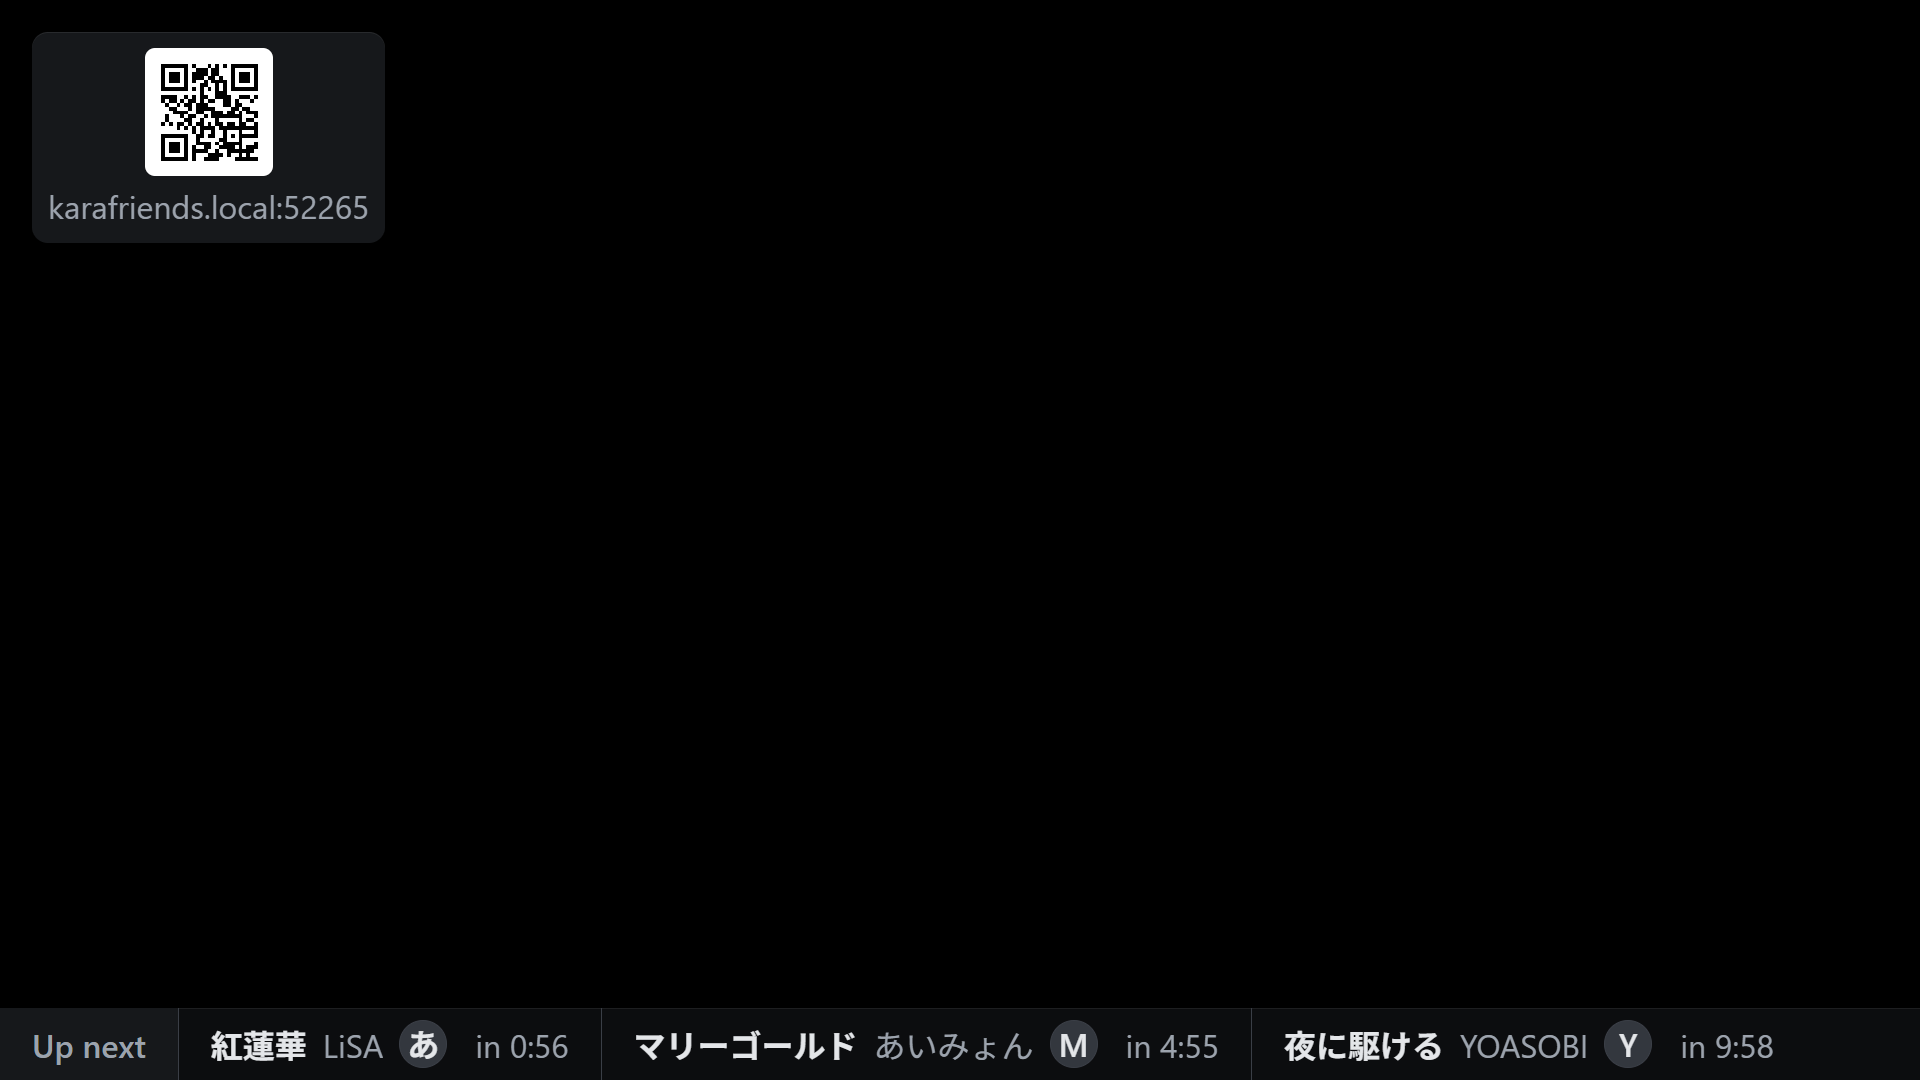
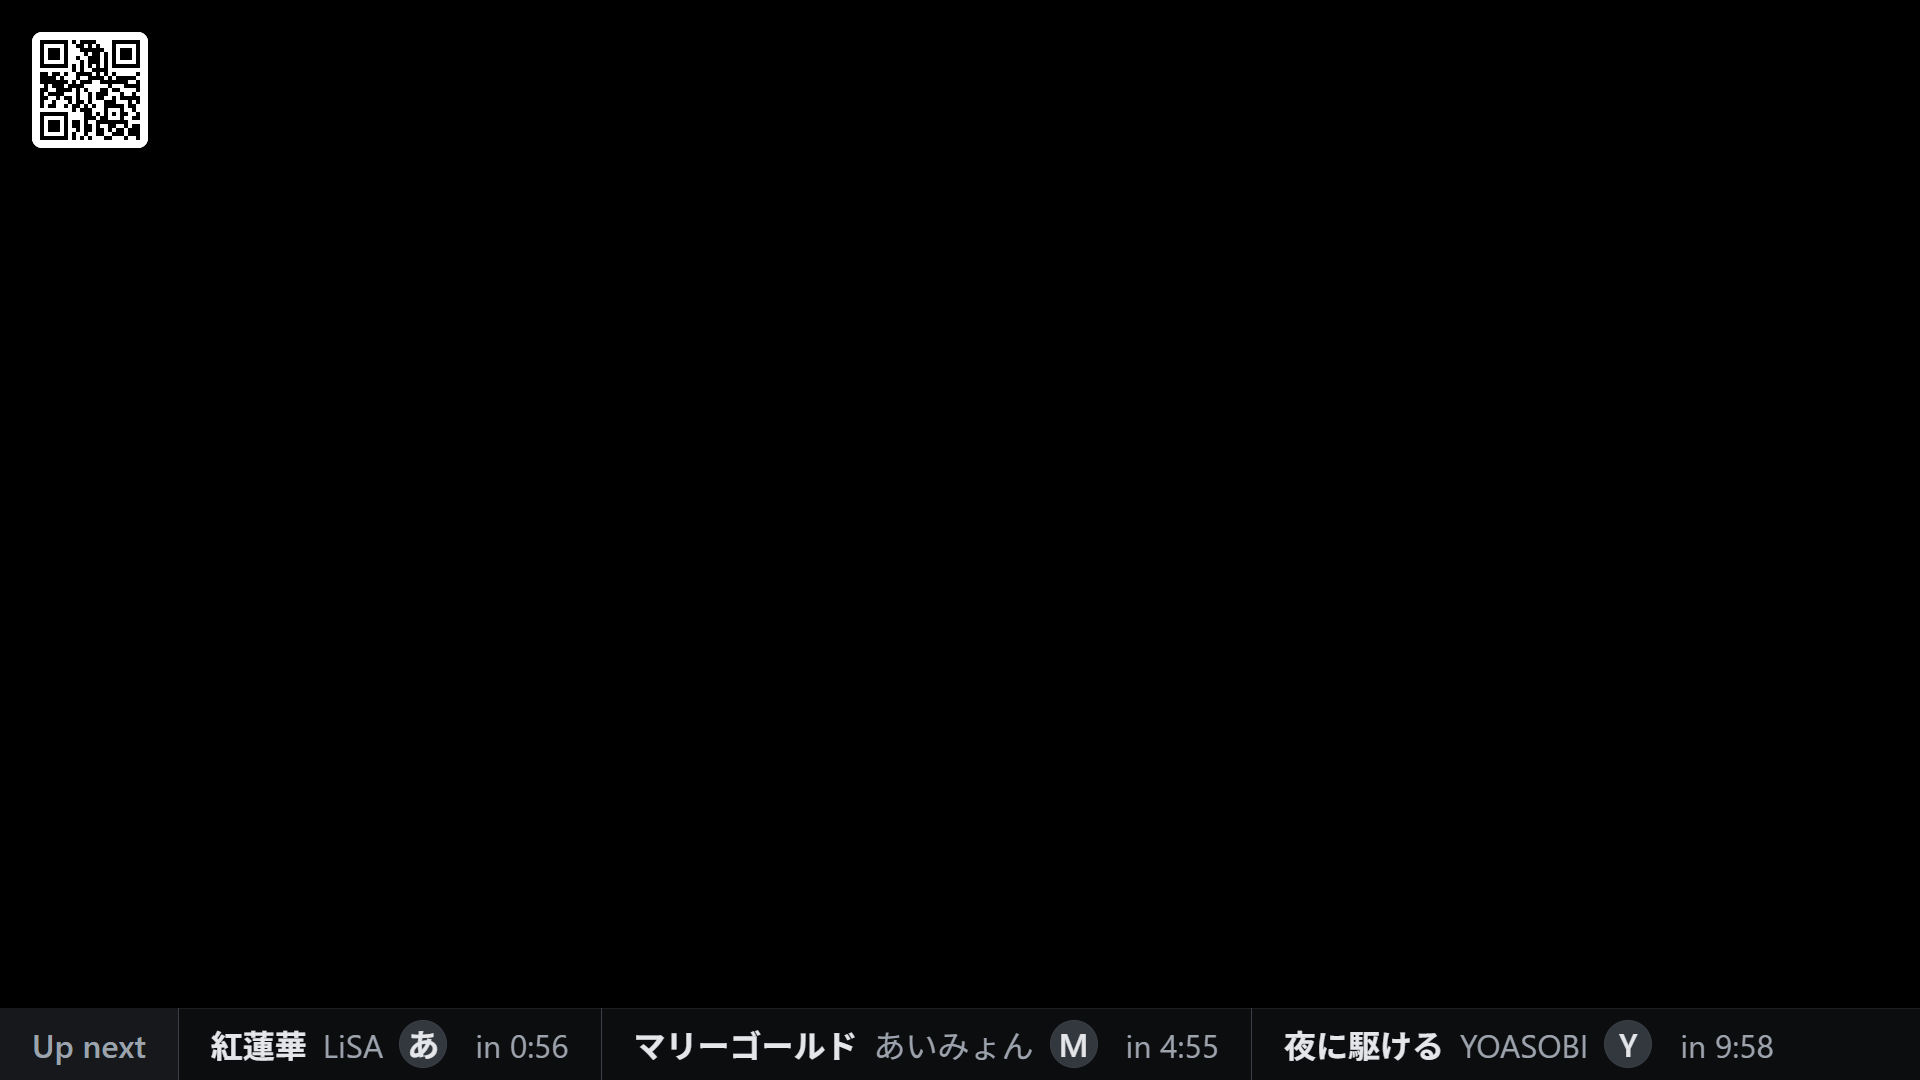
TV: a compact QR code in the corner, sharp codes, pitch bars beside it
The corner card loses the address and its padding: the code alone on a
small white tile. Both codes are drawn in whole pixels per module with a
2-module border, and the pitch bars start right of the tile so it no
longer hides them.

Claude-Session: https://claude.ai/code/session_01QVeND4kYoaNT3AJXVU9A6p

Changed region(s): [[0.0, 0.0306, 0.2188, 0.2444]]

diff --git a/src/renderer/QRCode.tsx b/src/renderer/QRCode.tsx
@@ -1,38 +1,65 @@
-import { toCanvas } from "qrcode";
+import { create } from "qrcode";
 import React, { useEffect, useRef } from "react";
 
 import "./QRCode.css";
 
-// The remote's QR code with its address under it: big, with "Scan to
-// join", on the idle screen; small in the top-left corner while a song
-// plays.
+// The white border round the code, in modules: the 2 phone cameras need,
+// rather than the standard's 4, so the modules are bigger in the same
+// space.
+const QUIET_ZONE = 2;
+
+// Draws the code with each module a whole number of the screen's pixels,
+// as big as fits the tile, so its squares stay sharp at any size. The tile
+// is white too, so what doesn't divide evenly widens the border.
+function draw(canvas: HTMLCanvasElement, text: string) {
+  const tile = canvas.parentElement;
+  if (!tile) return;
+  const { modules } = create(text, { errorCorrectionLevel: "L" });
+  const count = modules.size + QUIET_ZONE * 2;
+  const ratio = window.devicePixelRatio || 1;
+  const scale = Math.max(1, Math.floor((tile.clientWidth * ratio) / count));
+  const pixels = count * scale;
+  canvas.width = pixels;
+  canvas.height = pixels;
+  canvas.style.width = `${pixels / ratio}px`;
+  canvas.style.height = `${pixels / ratio}px`;
+
+  const context = canvas.getContext("2d");
+  if (!context) return;
+  context.fillStyle = "#fff";
+  context.fillRect(0, 0, pixels, pixels);
+  context.fillStyle = "#000";
+  for (let row = 0; row < modules.size; row++) {
+    for (let col = 0; col < modules.size; col++) {
+      if (modules.get(row, col)) {
+        context.fillRect(
+          (col + QUIET_ZONE) * scale,
+          (row + QUIET_ZONE) * scale,
+          scale,
+          scale,
+        );
+      }
+    }
+  }
+}
+
+// The remote's QR code: big on the idle screen, with "Scan to join" and
+// the address under it for typing; while a song plays, the code alone on a
+// small tile in the top-left corner.
 function QRCode(props: { hostname: string; corner?: boolean }) {
   const canvasRef = useRef<HTMLCanvasElement>(null);
 
+  // Again when the tile changes size (the window, the UI scale).
   useEffect(() => {
-    function update() {
-      if (!canvasRef.current) return;
-
-      canvasRef.current.style.width = "100%";
-      toCanvas(
-        canvasRef.current,
-        `http://${props.hostname}`,
-        {
-          errorCorrectionLevel: "L",
-          width: canvasRef.current.clientWidth,
-        },
-        (error) => {
-          if (error) {
-            console.error(error);
-          }
-        },
-      );
-    }
-
+    const canvas = canvasRef.current;
+    const tile = canvas?.parentElement;
+    if (!canvas || !tile) return;
+    const update = () => draw(canvas, `http://${props.hostname}`);
     update();
-    window.addEventListener("resize", update);
-    return () => window.removeEventListener("resize", update);
-  });
+    const observer = new ResizeObserver(update);
+    observer.observe(tile);
+    return () => observer.disconnect();
+  }, [props.hostname]);
 
   return (
     <div className={props.corner ? "join joinCorner" : "join"}>
@@ -44,8 +71,12 @@ function QRCode(props: { hostname: string; corner?: boolean }) {
           aria-label="QR code for the remote"
         />
       </div>
-      {props.corner ? null : <p className="joinScan">Scan to join</p>}
-      <p className="joinAddress">{props.hostname}</p>
+      {props.corner ? null : (
+        <>
+          <p className="joinScan">Scan to join</p>
+          <p className="joinAddress">{props.hostname}</p>
+        </>
+      )}
     </div>
   );
 }

diff --git a/tests/e2e/display.spec.ts b/tests/e2e/display.spec.ts
@@ -162,7 +162,7 @@ test.describe("while a song plays", () => {
     await expect(upNext.getByRole("listitem")).toHaveText([/E2E strip song 2/]);
   });
 
-  test("the QR code and the address stay in the corner, but not over Settings", async ({
+  test("the QR code stays in the corner, without the address, but not over Settings", async ({
     display,
     karafriends,
   }) => {
@@ -178,7 +178,8 @@ test.describe("while a song plays", () => {
       display.getByRole("region", { name: "Up next" }).getByRole("listitem"),
     ).toHaveText([/E2E strip song 2/]);
     await expect(qrCode).toBeVisible();
-    await expect(address).toBeVisible();
+    // The code alone: the address and "Scan to join" are the idle screen's.
+    await expect(address).toHaveCount(0);
     await expect(display.getByText("Scan to join")).toHaveCount(0);
     // Small and top-left, clear of the lyrics along the bottom.
     const box = (await qrCode.boundingBox())!;
@@ -191,7 +192,18 @@ test.describe("while a song plays", () => {
     ]);
     expect(box.x + box.width).toBeLessThan(width / 2);
     expect(box.y + box.height).toBeLessThan(strip.y / 2);
-    expect(box.width).toBeCloseTo(8 * rem, 0);
+    // The white tile is 7.25rem square; the code in it is drawn in whole
+    // pixels per module, so it fits inside, and the rest is white border.
+    const tile = (await qrCode.locator("..").boundingBox())!;
+    expect(tile.width).toBeCloseTo(7.25 * rem, 0);
+    expect(tile.height).toBeCloseTo(tile.width, 0);
+    expect(box.width).toBeLessThanOrEqual(tile.width + 0.5);
+    expect(box.height).toBeCloseTo(box.width, 0);
+    // The code and a 2-module border, 29 modules across.
+    const canvasWidth = await qrCode.evaluate(
+      (canvas: HTMLCanvasElement) => canvas.width,
+    );
+    expect(canvasWidth % 29).toBe(0);
 
     await display.keyboard.press("s");
     await expect(settings).toBeVisible();

diff --git a/src/renderer/QRCode.css b/src/renderer/QRCode.css
@@ -6,17 +6,23 @@
   text-align: center;
 }
 
-/* 45% of the screen's height on the idle screen, white with its own quiet
-   zone. */
+/* A white tile, 45% of the screen's height on the idle screen. The code
+   is drawn in whole pixels per module (QRCode.tsx), so it may be a few
+   pixels smaller than the tile: centered, the rest is more white border. */
 .joinCode {
+  display: flex;
+  align-items: center;
+  justify-content: center;
   width: 45vh;
+  aspect-ratio: 1;
   border-radius: var(--kf-radius-control);
+  background-color: #fff;
   overflow: hidden;
   line-height: 0;
 }
 
 .qrcode {
-  width: 100%;
+  display: block;
 }
 
 .joinScan {
@@ -31,26 +37,19 @@
   font-size: var(--kf-text-heading);
 }
 
-/* While a song plays: top-left over the video, on a card with a shadow
-   over the video, clear of the lyrics, which karaoke puts at the bottom
-   (DAM's in the video, Joysound's and ad-hoc ones drawn over it).
-   Announcements take the top-right. */
+/* While a song plays: the tile alone, top-left over the video with a
+   shadow, clear of the lyrics, which karaoke puts at the bottom (DAM's in
+   the video, Joysound's and ad-hoc ones drawn over it). The pitch bars
+   start right of it (PianoRoll.css). Announcements take the top-right. */
 .joinCorner {
   position: absolute;
   top: var(--kf-space-6);
   left: var(--kf-space-6);
   z-index: 5;
-  padding: var(--kf-space-4);
-  border-radius: var(--kf-radius-card);
-  background-color: var(--kf-surface);
-  box-shadow: var(--kf-shadow-float);
   pointer-events: none;
 }
 
 .joinCorner .joinCode {
-  width: 8rem;
-}
-
-.joinCorner .joinAddress {
-  font-size: var(--kf-text-label);
+  width: var(--kf-join-corner);
+  box-shadow: var(--kf-shadow-float);
 }

diff --git a/tests/e2e/settings.spec.ts b/tests/e2e/settings.spec.ts
@@ -476,6 +476,15 @@ test.describe("the pitch bars", () => {
 
     const roll = display.locator("canvas.pianoRollRoll");
     await expect(roll).toHaveCount(1, { timeout: 20_000 });
+    // The bars start right of the QR tile in the corner, and run to the
+    // screen's right edge.
+    const [rollBox, rem, screenWidth] = await roll.evaluate((el) => [
+      el.getBoundingClientRect().toJSON(),
+      parseFloat(getComputedStyle(document.documentElement).fontSize),
+      window.innerWidth,
+    ]);
+    expect(rollBox.left).toBeCloseTo((2 + 7.25 + 1) * rem, 0);
+    expect(rollBox.right).toBeCloseTo(screenWidth, 0);
     await expect
       .poll(() =>
         display

diff --git a/src/renderer/PianoRoll.css b/src/renderer/PianoRoll.css
@@ -1,8 +1,14 @@
+/* From just right of the QR tile in the corner (QRCode.css) to the
+   screen's right edge, so the tile never hides the bars. (A canvas doesn't
+   stretch between left and right, so the width is given.) */
 .pianoRollRoll {
+  --clear-of-qr: calc(
+    var(--kf-space-6) + var(--kf-join-corner) + var(--kf-space-4)
+  );
   position: absolute;
-  left: 0;
+  left: var(--clear-of-qr);
   top: 5%;
-  width: 100%;
+  width: calc(100% - var(--clear-of-qr));
   height: 30%;
   background: repeating-linear-gradient(
     rgba(50%, 75%, 100%, 0.7),

diff --git a/src/renderer/tokens.css b/src/renderer/tokens.css
@@ -106,6 +106,11 @@
   --kf-radius-control: 0.625rem;
   --kf-radius-card: 1rem;
 
+  /* The QR tile in the corner while a song plays: 29 modules (the code and
+     a 2-module border), each 4 pixels at 1080p. The pitch bars start
+     right of it. */
+  --kf-join-corner: 7.25rem;
+
   /* UI text uses the system stack; lyrics keep the bundled Noto fonts. */
   --kf-font:
     system-ui, -apple-system, "Segoe UI", Roboto, "Hiragino Sans",

diff --git a/CHANGELOG.md b/CHANGELOG.md
@@ -53,6 +53,7 @@ The product round: the phone remote, the display, settings and party-time failur
 - Darker colors ("Graphite") with real depth on the phone and the TV: lists and settings are rounded cards with soft shadows, the queue sheet is a lighter layer with a long shadow, fields and slider tracks are sunken, and buttons and picked choices are raised; the phone's light theme matches. The TV's sliders in Settings are a clear track filled with the accent up to the value, with a solid thumb, instead of Windows' blue dot in a ring; the phone keeps the phone's own slider (iOS's on an iPhone), tinted with the accent.
 - The open queue sheet reads as three blocks: the song playing, the queue in a well under "Up next", and a toolbar of its own. The toolbar is grouped: a switch between controls and emotes, a big play button between restart and skip, and the key as one stepper that shows its sign (+2, −1). In supervised mode, a phone that can't control the song says so in one line.
 - Joysound songs get pitch bars too: the display reads the melody from the song's guide melody (the third channel of its sound) as it starts, and draws the same bars as for DAM songs, with each mic's pitch over them. On three real songs the notes match DAM's own melody data over 93–98 % of the sung time. The Settings switch is now "Pitch bars" and covers both.
+- While a song plays, the QR code in the corner is the code alone on a small white tile (about 80 % less room than the card with the address), and the pitch bars start right of it instead of under it. Both QR codes are drawn in whole pixels per square with a slimmer white border, so they stay sharp at any screen size; the corner one still scans at half its size. The idle screen keeps "Scan to join" and the address.
 
 ## 0.1.0
 

diff --git a/notes/PLAN-ui-round.md b/notes/PLAN-ui-round.md
@@ -55,3 +55,4 @@ Merge each branch as it is reviewed. Then: place U1's progress line in U3's shee
 - **The sheet's bottom bar** (added to C1): "a bunch of randomly placed icons with no real grouping". Three zones on one row: a two-way Controls/Emotes switch on the left; restart, a big raised play/pause and skip as one transport group in the middle; the key as one sunken stepper pill (♭, a signed value, ♯, a small "Key" label) on the right.
 - **Distinct sections in the open sheet** (added to C1): the Now playing bar as the header on the sheet color; Up next in an inset, sunken, rounded well with its caps heading above; the controls as a footer with its own top edge.
 - **The phone's sliders are native again** (the user's call): the "glass" was iOS's own slider effect. The phone uses the browser's range input with `accent-color`; S1's drawn track, `--kf-fill` checks on the phone and the `--kf-track`/`--kf-shadow-track`/`--kf-drop-raise` phone tokens are gone. The TV keeps S1's slider.
+- **A compact QR code** (the user: no address in the corner card, take less room, stay readable): the corner is the code alone on a white tile `--kf-join-corner` (7.25rem: 29 modules of 4px at 1080p, a 2-module border); both codes drawn in whole device pixels per module; the pitch bars start right of the tile (this settles J1's open point). Checked: OpenCV decodes the corner code even at half size. The idle screen keeps "Scan to join" and the address.
